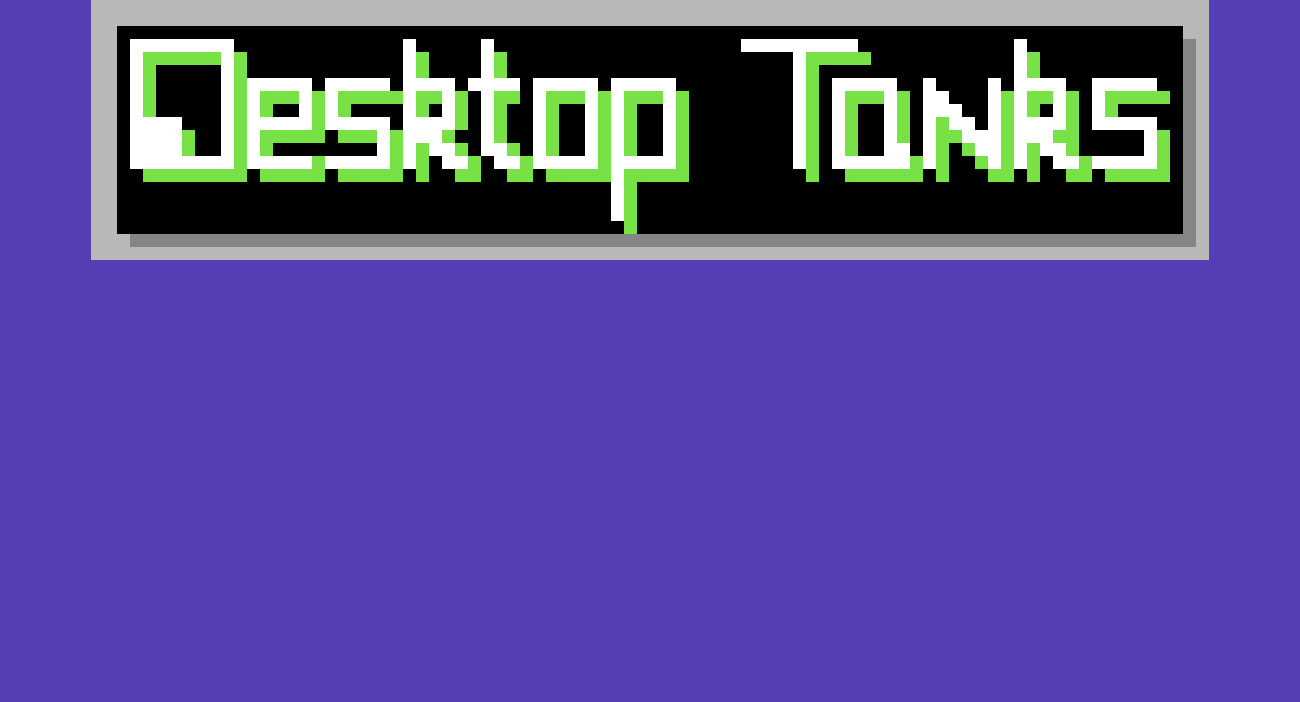
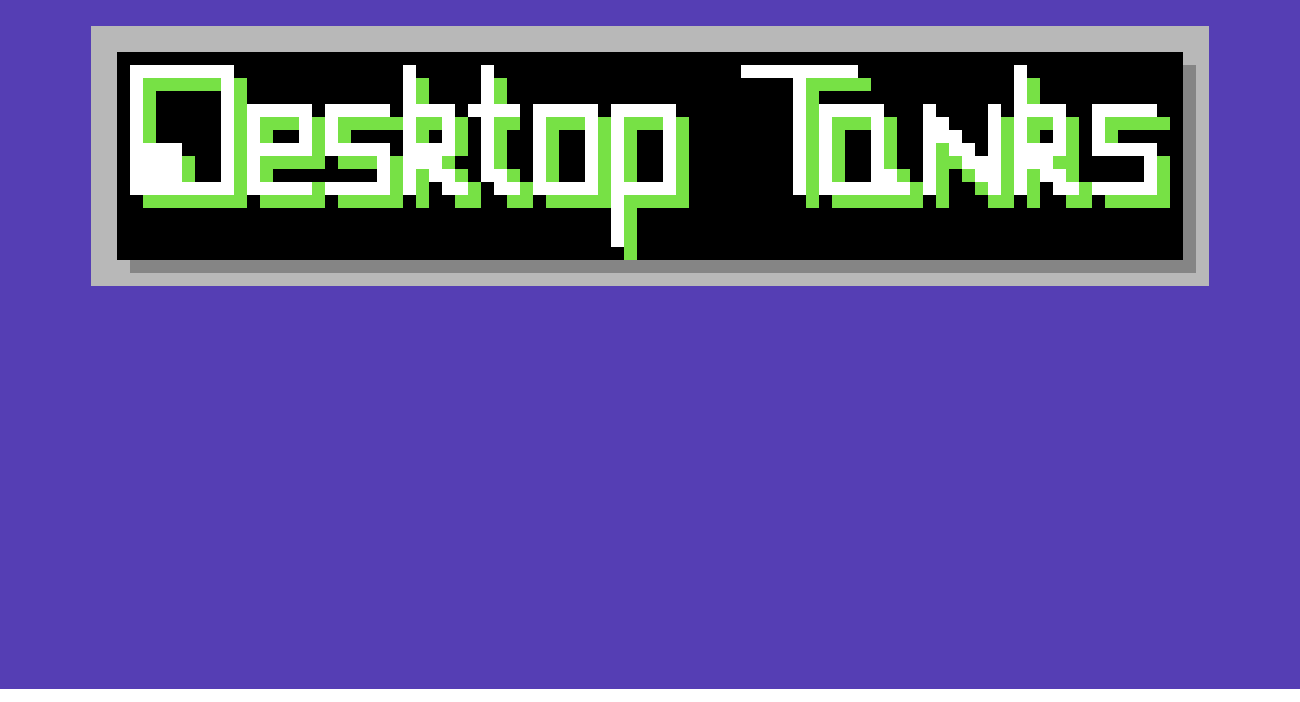
add some swag to the color selector

Changed region(s): [[0.0615, 0.0, 0.9538, 0.4188], [0.0, 0.9573, 1.0, 1.0]]

diff --git a/public/js/states/menu.js b/public/js/states/menu.js
@@ -26,71 +26,99 @@ TanksGame.Menu.prototype = {
     let bg = this.add.image(0,0, 'bg')
     let anchor = {x:0.5,y:0.5};
 
-    const redTank = this.add.sprite(650,300,'redTank');
-    const redTurret = this.add.sprite(650,300,'redTurret');
+    const redTank = this.add.sprite(650,400,'redTank');
+    const redTurret = this.add.sprite(650,400,'redTurret');
     redTank.animations.add('run',[0,1,2], 3);
     redTank.animations.play('run', 3, true);
     redTank.anchor = anchor;
     redTurret.anchor = anchor;
     redTurret.inputEnabled = true;
     redTank.inputEnabled = true;
-    redTank.events.onInputDown.add(()=>{selections.color = 'red';TanksGame.Menu.prototype.moveOn = true;});
-    redTurret.events.onInputDown.add(()=>{selections.color = 'red';TanksGame.Menu.prototype.moveOn = true;})
-    const blueTank = this.add.sprite(450,300,'blueTank');
-    const blueTurret = this.add.sprite(450,300,'blueTurret');
+    redTank.active = false;
+    redTurret.active = false;
+    redTank.events.onInputDown.add(()=>{selections.color = 'red';});
+    redTurret.events.onInputDown.add(()=>{selections.color = 'red';})
+    const blueTank = this.add.sprite(450,400,'blueTank');
+    const blueTurret = this.add.sprite(450,400,'blueTurret');
     blueTank.anchor = anchor;
     blueTurret.anchor = anchor;
+    blueTurret.active = false;
+    blueTank.active = false;
     blueTank.animations.add('run',[0,1,2], 3);
     blueTank.animations.play('run', 3, true);
     blueTurret.inputEnabled = true;
     blueTank.inputEnabled = true;
-    blueTank.events.onInputDown.add(()=>{selections.color = 'blue';TanksGame.Menu.prototype.moveOn = true;});
-    blueTurret.events.onInputDown.add(()=>{selections.color = 'blue';TanksGame.Menu.prototype.moveOn = true;})
-    const purpleTank = this.add.sprite(550,300,'purpleTank');
-    const purpleTurret = this.add.sprite(550,300,'purpleTurret');
+    blueTank.events.onInputDown.add(()=>{selections.color = 'blue';});
+    blueTurret.events.onInputDown.add(()=>{selections.color = 'blue';})
+    const purpleTank = this.add.sprite(550,400,'purpleTank');
+    const purpleTurret = this.add.sprite(550,400,'purpleTurret');
     purpleTank.anchor = anchor;
     purpleTurret.anchor = anchor;
+    purpleTank.active = false;
+    purpleTurret.active = false;
     purpleTank.animations.add('run',[0,1,2], 3);
     purpleTank.animations.play('run', 3, true);
     purpleTurret.inputEnabled = true;
     purpleTank.inputEnabled = true;
-    purpleTank.events.onInputDown.add(()=>{selections.color = 'purple';TanksGame.Menu.prototype.moveOn = true;});
-    purpleTurret.events.onInputDown.add(()=>{selections.color = 'purple';TanksGame.Menu.prototype.moveOn = true;})
-    const silverTank = this.add.sprite(850,300,'silverTank');
-    const silverTurret = this.add.sprite(850,300,'silverTurret');
+    purpleTank.events.onInputDown.add(()=>{selections.color = 'purple';});
+    purpleTurret.events.onInputDown.add(()=>{selections.color = 'purple';})
+    const silverTank = this.add.sprite(850,400,'silverTank');
+    const silverTurret = this.add.sprite(850,400,'silverTurret');
     silverTank.anchor = anchor;
     silverTurret.anchor = anchor;
     silverTank.animations.add('run',[0,1,2], 3);
     silverTank.animations.play('run', 3, true);
     silverTurret.inputEnabled = true;
     silverTank.inputEnabled = true;
-    silverTank.events.onInputDown.add(()=>{selections.color = 'silver';TanksGame.Menu.prototype.moveOn = true;});
-    silverTurret.events.onInputDown.add(()=>{selections.color = 'silver';TanksGame.Menu.prototype.moveOn = true;})
-    const greenTank = this.add.sprite(750,300,'greenTank');
-    const greenTurret = this.add.sprite(750,300,'greenTurret');
+    silverTank.active = false;
+    silverTurret.active = false;
+    silverTank.events.onInputDown.add(()=>{selections.color = 'silver';});
+    silverTurret.events.onInputDown.add(()=>{selections.color = 'silver';})
+    const greenTank = this.add.sprite(750,400,'greenTank');
+    const greenTurret = this.add.sprite(750,400,'greenTurret');
     greenTank.anchor = anchor;
     greenTurret.anchor = anchor;
     greenTank.animations.add('run',[0,1,2], 3);
     greenTank.animations.play('run', 3, true);
     greenTurret.inputEnabled = true;
     greenTank.inputEnabled = true;
-    greenTank.events.onInputDown.add(()=>{selections.color = 'green';TanksGame.Menu.prototype.moveOn = true;});
-    greenTurret.events.onInputDown.add(()=>{selections.color = 'green';TanksGame.Menu.prototype.moveOn = true;});
-    const startButton = game.add.button(504,560,'startButton',function(){},this, 1,3,2)
+    greenTank.active = false;
+    greenTurret.active = false;
+    greenTank.events.onInputDown.add(()=>{selections.color = 'green'});
+    greenTurret.events.onInputDown.add(()=>{selections.color = 'green'});
+
+
+    const startButton = game.add.button(504,560,'startButton',()=>{
+      if(selections.color){
+        document.getElementById('nameForm');
+        nameForm.remove();
+        this.state.start('Play');
+      }else{
+        console.log('you\'re not ready');
+      }
+    },this, 1,3,2)
+
+
 
     let gameDiv = document.getElementById('gameContainer');
     let nameForm = document.createElement('input');
     nameForm.type ="text";
     nameForm.id = "nameForm";
     nameForm.placeholder = 'Name';
-    gameDiv.append(nameForm);
     theNamer = document.getElementById('nameForm');
-    theNamer.addEventListener('change', ()=>{console.log('click');})
+    // theNamer.addEventListener('change', ()=>{console.log('click');})
 
   },
   update: function(){
-    if(selections.color&&selections.name){
-      this.state.start('Play');
+    if(selections.color){
+      game.world.children.forEach((sprite)=>{
+        if(sprite.key.indexOf(selections.color) >-1){
+          sprite.angle+=4;
+        }
+        else{
+          sprite.angle = 0;
+        }
+      });
     }
 },
   useBella: function(){

diff --git a/public/css/index.css b/public/css/index.css
@@ -1,17 +1,17 @@
 @import url('https://fonts.googleapis.com/css?family=VT323');
 
 body{
-  background-color: cornsilk;
+  background-color: black;
 }
 canvas{
-  margin
+  margin: auto;
+  margin-top: 10%;
 }
 #nameForm{
   position: absolute;
   height: 10%;
   left: 319px;
   top: 450px;
-  /*width: 50%;*/
   font-family: 'VT323', monospace;
   font-size: 5em;
   background-color: black;

diff --git a/public/js/states/play.js b/public/js/states/play.js
@@ -26,6 +26,7 @@ TanksGame.Play.prototype = {
     this.load.spritesheet('purpleTurret', '/assets/purple_tank_top.png', 50, 50, 1);
   },
   create: function(){
+    this.stage.backgroundColor = '#7BAFAF';
     allTanks = {};
     game.physics.startSystem(Phaser.Physics.ARCADE);
     Client.addPlayer(selections.color);

diff --git a/public/js/states/Boot.js b/public/js/states/Boot.js
@@ -16,7 +16,7 @@ TanksGame.Boot.prototype = {
     this.pageAlignHorizonatlly = true;
     this.pageAlignVertically = true;
     this.stage.forcePortrait = true;
-    this.stage.backgroundColor = '#7BAFAF';
+    this.stage.backgroundColor = '#553EB4';
     this.state.start('Menu');
   }
 };
